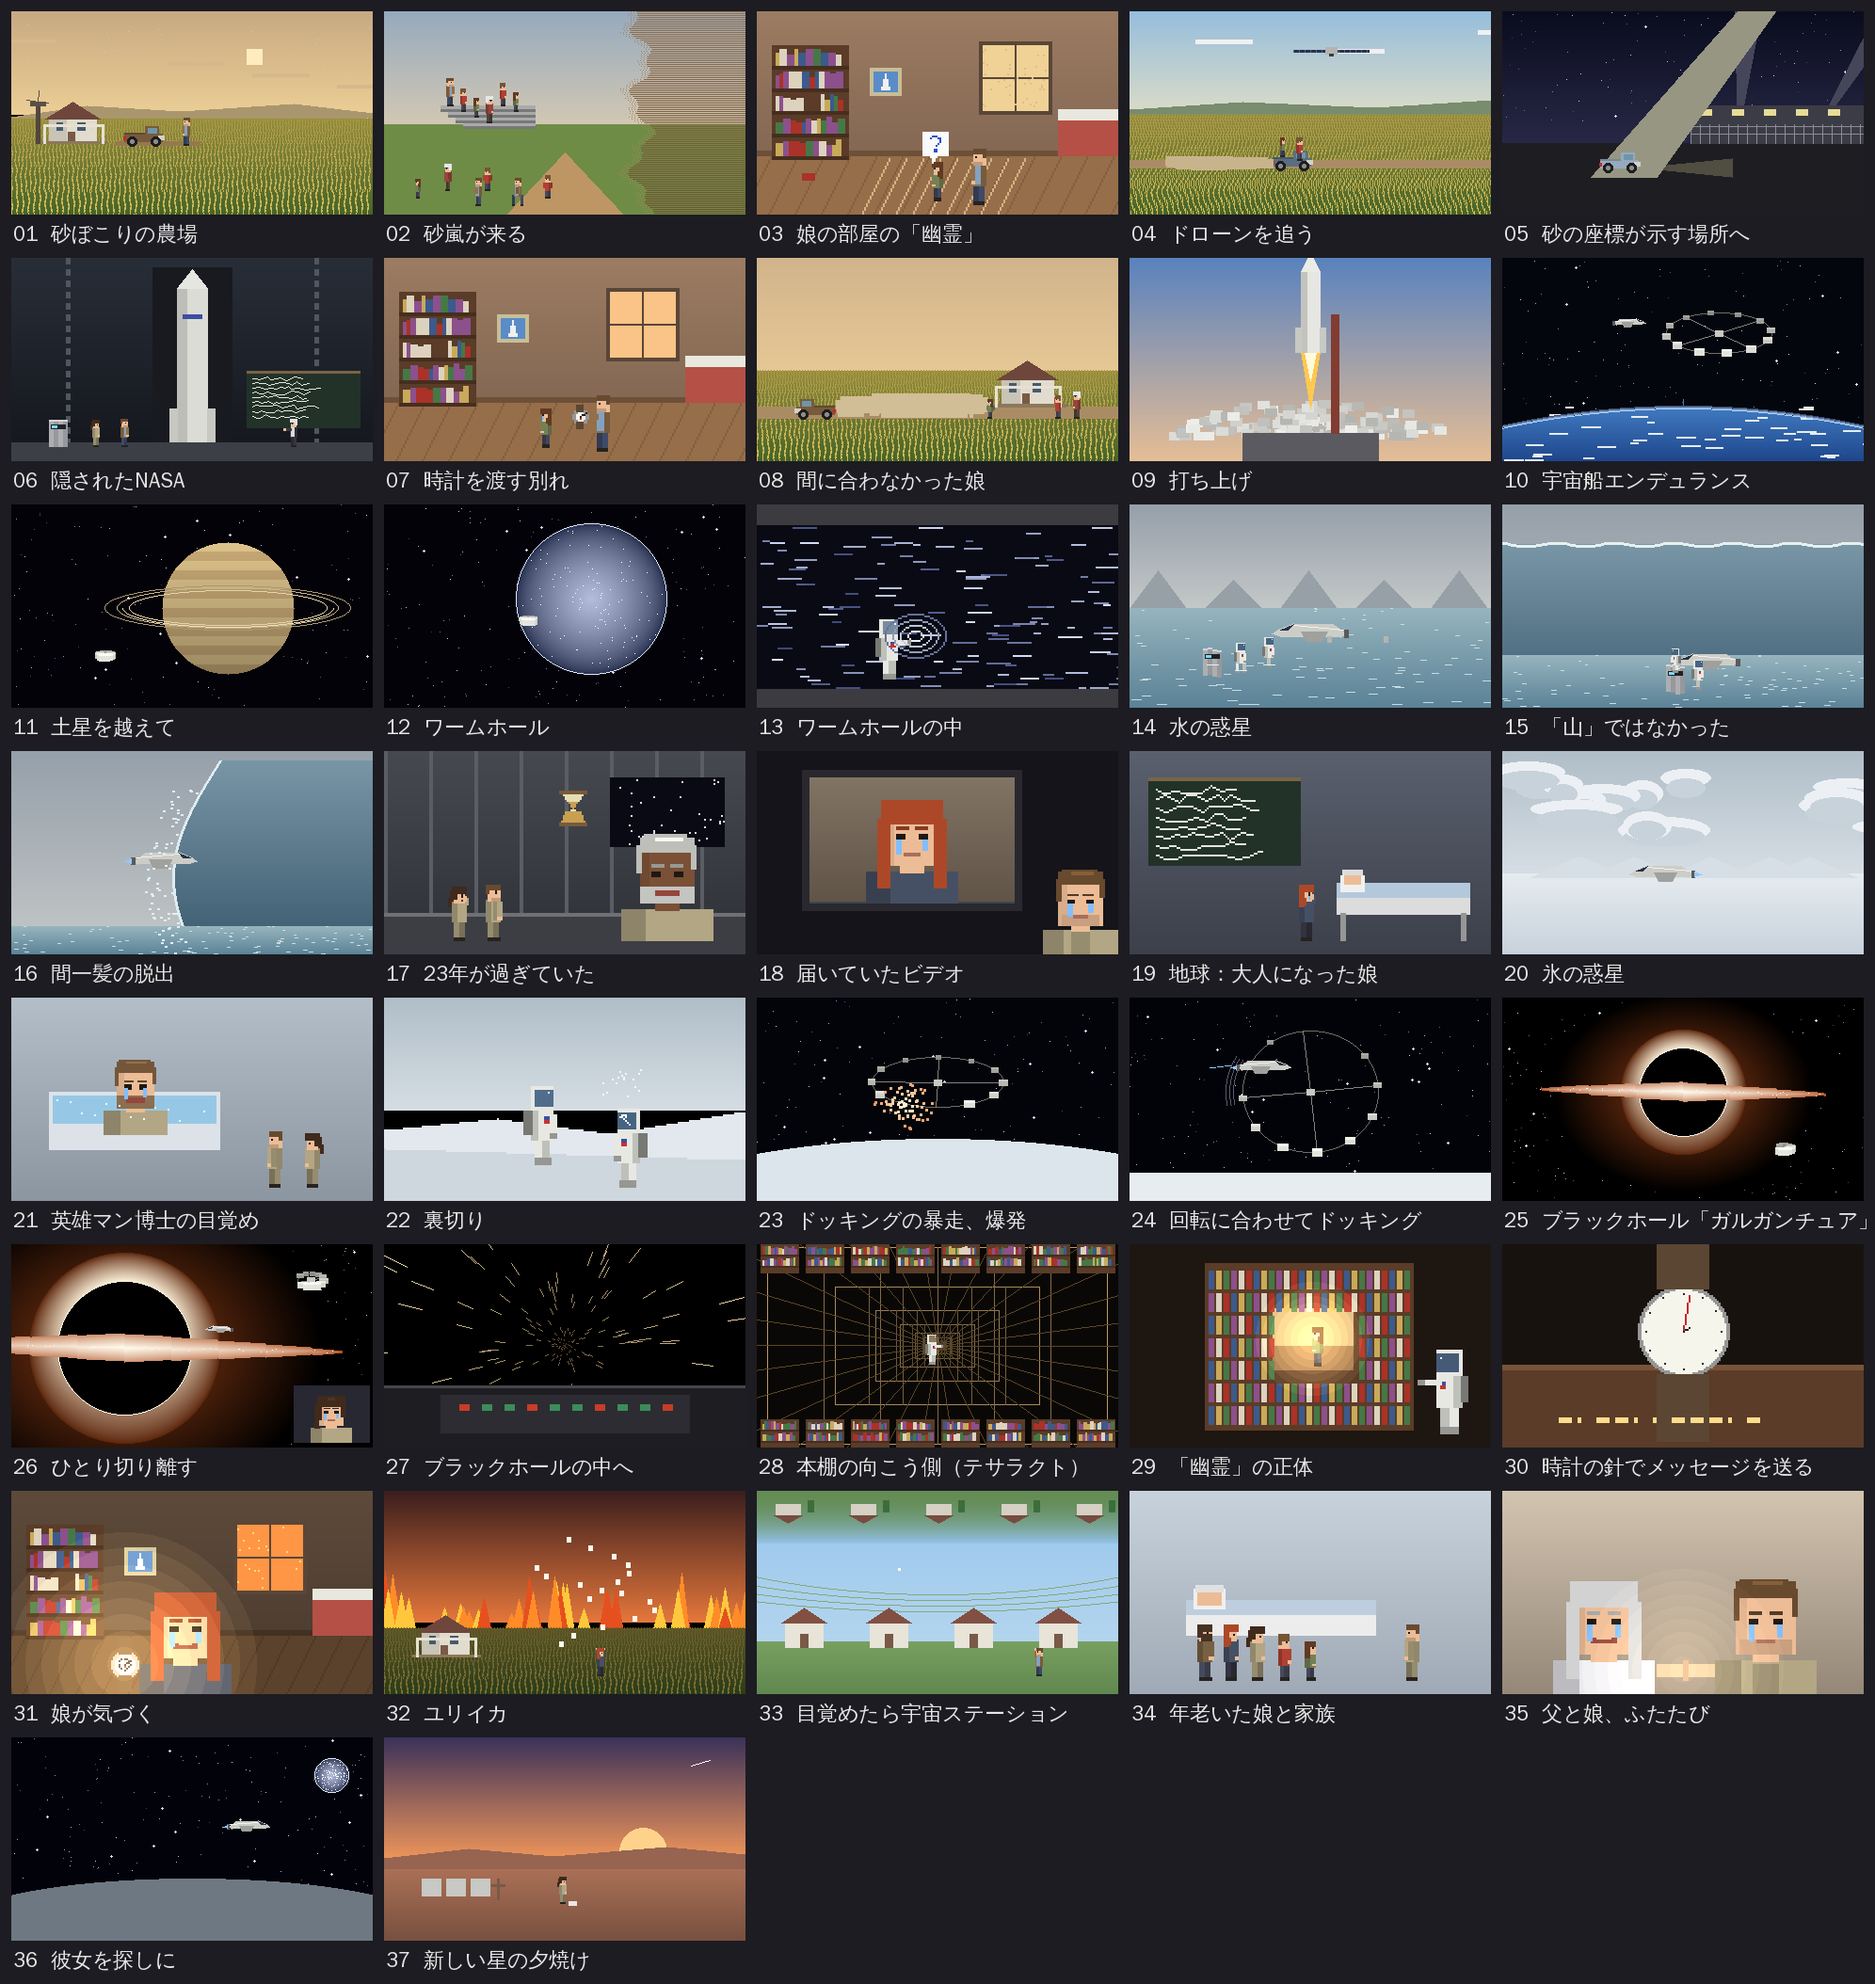
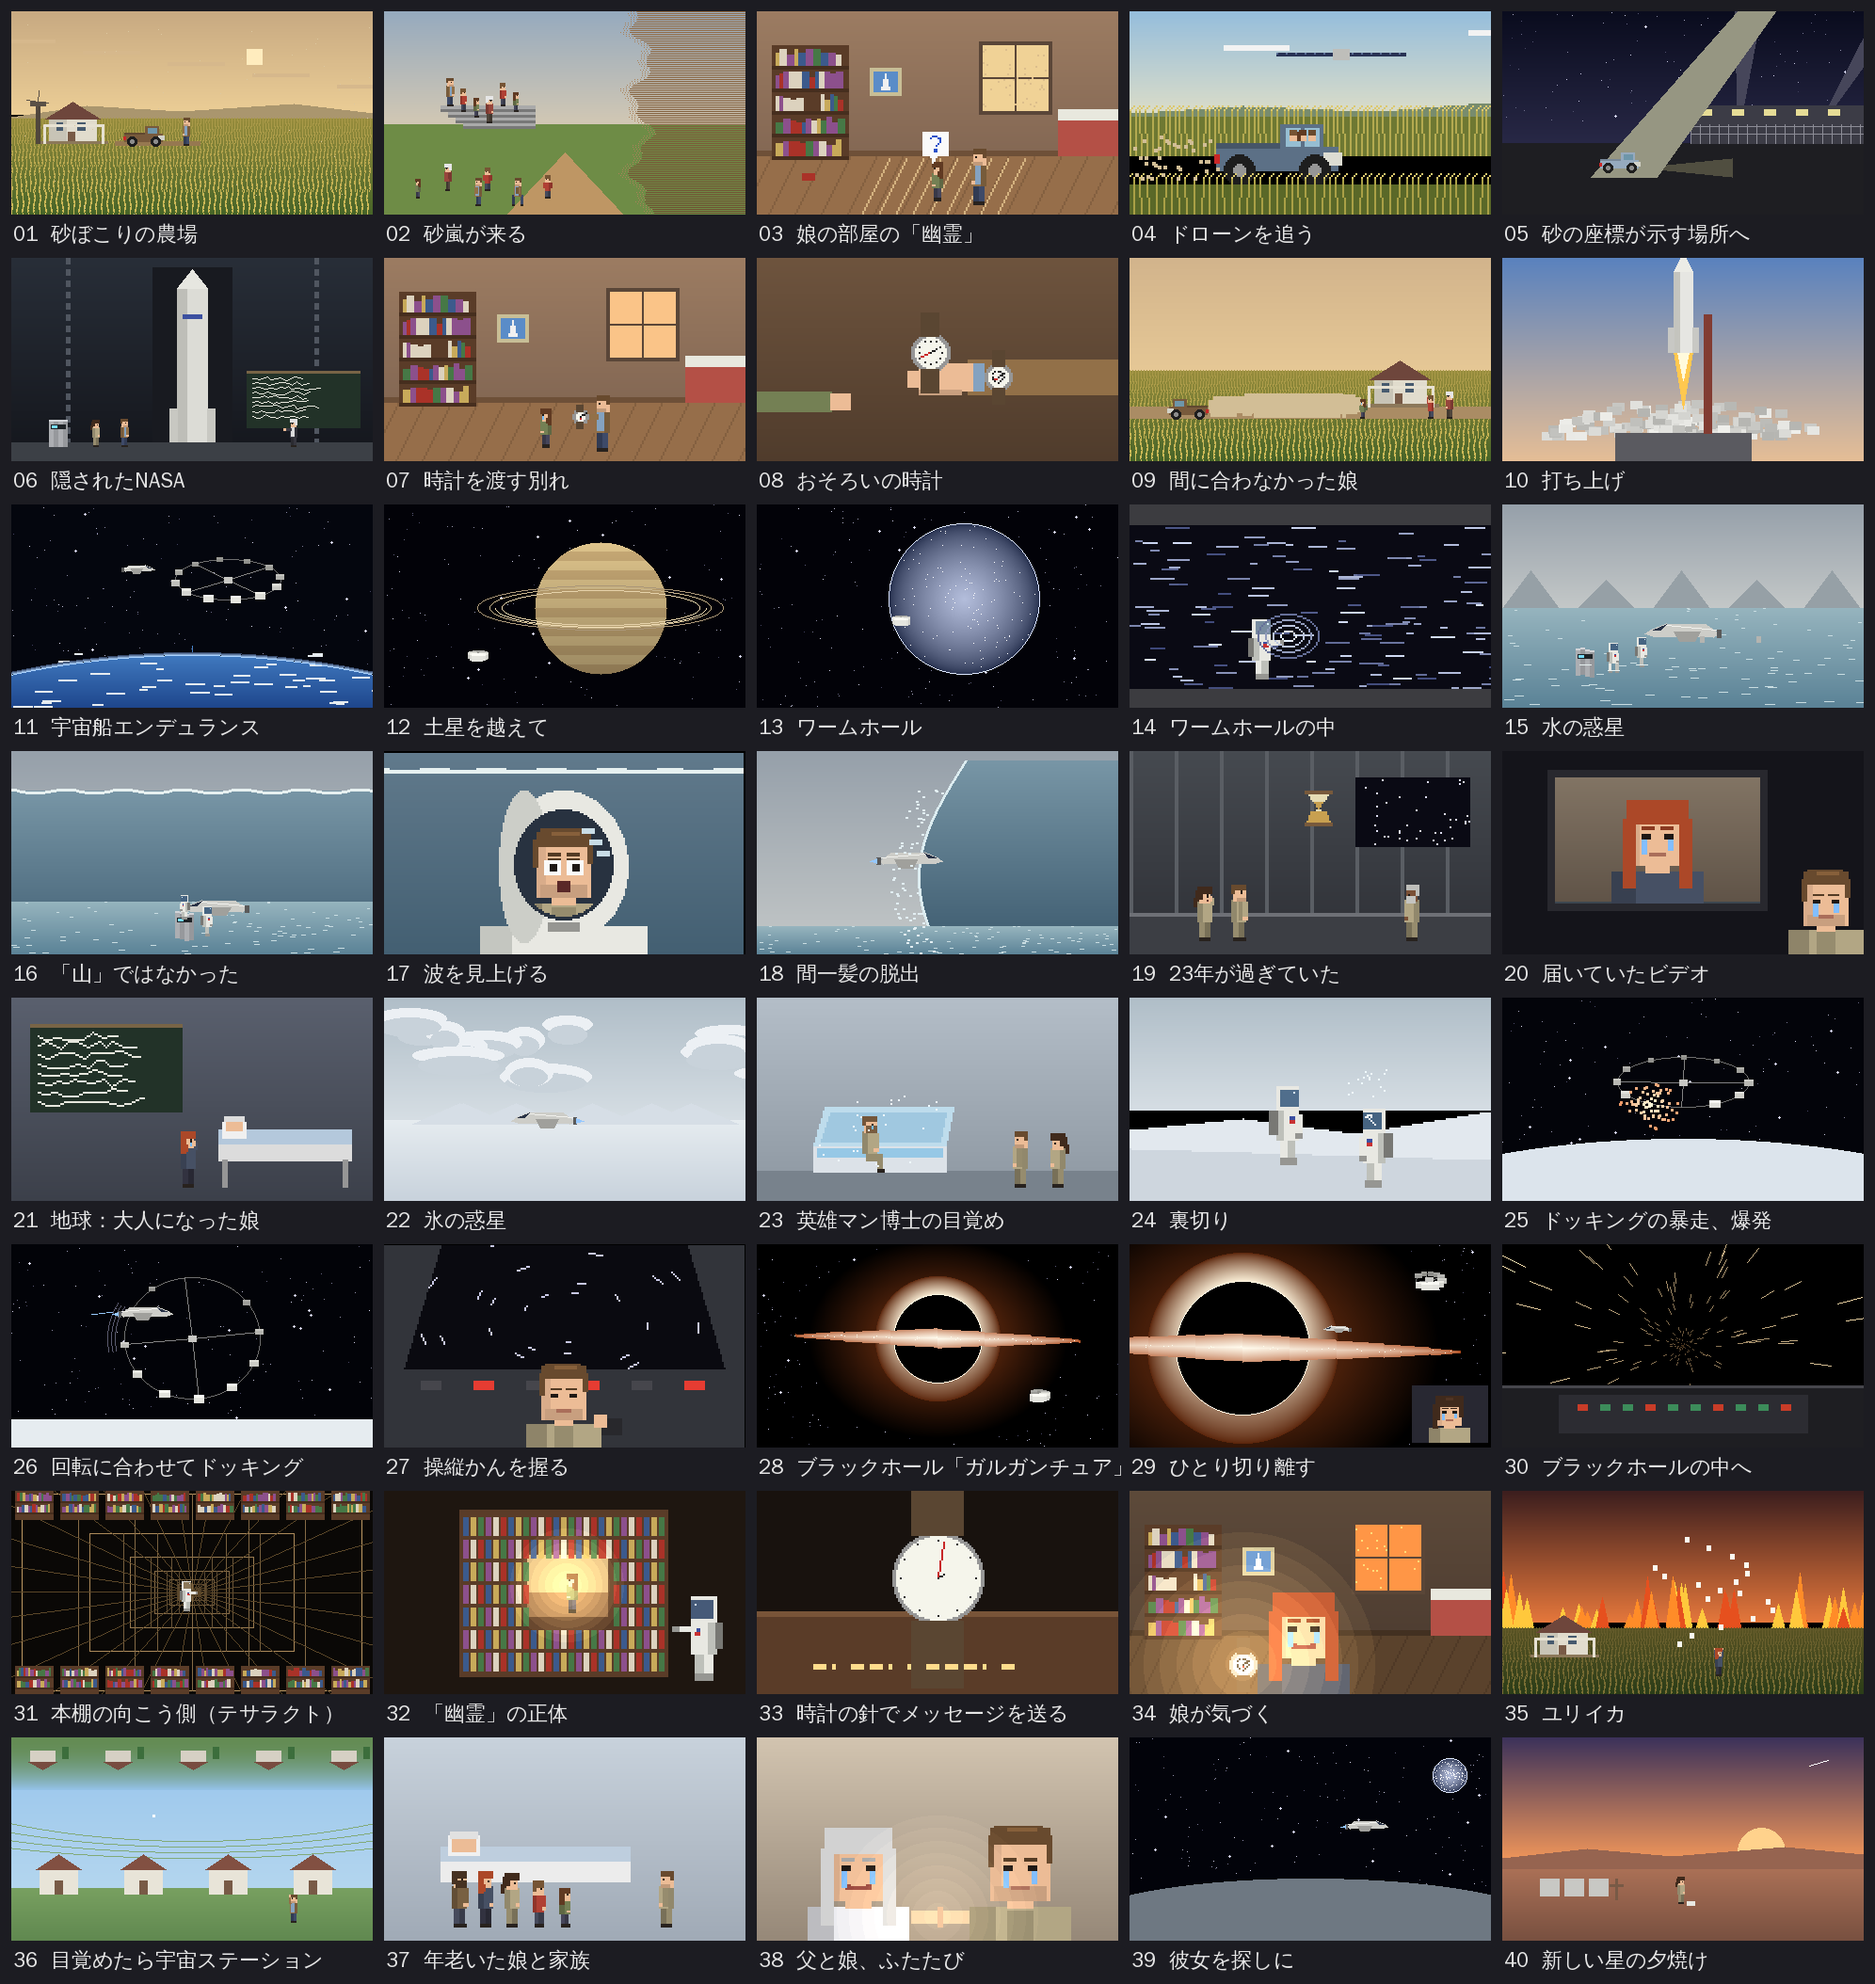
Interstellar: 40 cuts (watch close-up, wave look-up, cockpit), bigger pickup in drone chase, normal-size Romilly and Mann
Claude-Session: https://claude.ai/code/session_0186sLp4kup135AngXnfFUNM

diff --git a/interstellar/act1.py b/interstellar/act1.py
@@ -44,22 +44,40 @@ def s03_ghost(t):                     # Murph's room: fallen book, dust lines
     if t > 3: bubble(d, 88, 64, '?')
     return up(im)
 
-def s04_drone(t):                     # chasing the drone through the corn
-    im, d = canvas(); grad(d, 0, 110, (150, 190, 220), (220, 220, 200))
-    for k in range(3): R(d, (k * 140 - t * 6) % 440 - 40, 20 + k * 10, (k * 140 - t * 6) % 440 + 20, 24 + k * 10, (240, 240, 240))
-    d.polygon([(0, 104), (120, 96), (260, 102), (384, 94), (384, 112), (0, 112)], fill=(120, 140, 110))
-    corn(d, 110, 216, t, scroll=t * 120)
-    dx, dy = 230 + math.sin(t * 0.8) * 20, 40 + math.sin(t * 1.3) * 6
-    R(d, dx - 40, dy, dx + 40, dy + 2, (40, 50, 80))
-    for k in range(-40, 40, 6): d.line([dx + k, dy, dx + k, dy + 2], fill=(80, 100, 140))
-    R(d, dx - 6, dy - 3, dx + 6, dy + 4, (180, 180, 176)); R(d, dx - 2, dy + 4, dx + 2, dy + 6, (60, 60, 60))
-    R(d, 0, 158, W, 166, (170, 140, 100))
-    tx = 150 + math.sin(t * 3) * 4
-    truck(d, tx, 168, 1, col=(90, 110, 130), f=t)
-    person(d, tx + 28, 158, 'tom', 1); person(d, tx + 10, 154, 'murph', 1, 'wave')
+def s04_drone(t):                     # Cooper's pickup tearing through the corn after the drone
+    im, d = zcanvas(); grad(d, 0, 56, (150, 190, 220), (222, 222, 200), 0, ZW)
+    for k in range(2): R(d, (k * 90 - t * 4) % 220 - 20, 10 + k * 8, (k * 90 - t * 4) % 220 + 14, 12 + k * 8, (242, 242, 242))
+    d.polygon([(0, 54), (60, 50), (130, 53), (192, 48), (192, 58), (0, 58)], fill=(120, 140, 110))
+    def cornrow(y0, y1, sp, scroll, col, tip):
+        R(d, 0, y0, ZW, y1, col)
+        off = int(scroll) % sp
+        for x in range(-off, ZW + sp, sp):
+            sw = int(math.sin(t * 3 + x * 0.3) * 1.5)
+            d.line([x, y1, x + sw, y0 - 4], fill=tip); d.line([x + sw, y0 - 4, x + sw + 2, y0 - 6], fill=(220, 200, 110))
+    cornrow(56, 76, 3, t * 30, (110, 120, 50), (180, 170, 80))
+    # drone overhead: long dark solar wing
+    dx, dy = 120 + math.sin(t * 0.8) * 10, 22 + math.sin(t * 1.3) * 3
+    R(d, dx - 34, dy, dx + 34, dy + 1, (40, 50, 84))
+    for k in range(-34, 34, 5): d.point((dx + k, dy), fill=(90, 110, 150))
+    R(d, dx - 4, dy - 2, dx + 4, dy + 3, (190, 190, 186))
+    # the pickup, big, bouncing through the stalks
+    tx, ty = 46, 90 + int(math.sin(t * 9) * 1)
+    B = lambda a, b, c, e, col: R(d, tx + a, ty - b, tx + c, ty - e, col)
+    B(0, 6, 64, 18, (92, 112, 134)); B(34, 18, 56, 30, (92, 112, 134)); B(0, 18, 33, 20, (70, 86, 104))
+    B(37, 19, 54, 28, (150, 190, 210)); B(45, 19, 46, 28, (92, 112, 134))
+    B(57, 15, 66, 9, (220, 220, 210)); B(-1, 10, 1, 14, (200, 40, 40))
+    for wx in (12, 52):
+        d.ellipse([tx + wx - 8, ty - 14, tx + wx + 8, ty + 2], fill=(30, 30, 30)); d.ellipse([tx + wx - 3, ty - 9, tx + wx + 3, ty - 3], fill=(150, 150, 150))
+    # faces in the cab: Cooper driving, Murph and Tom beside him
+    for k, who in enumerate(['tom', 'murph', 'cooper']):
+        c = CAST[who]; fx = tx + 39 + k * 5
+        R(d, fx, ty - 26, fx + 3, ty - 22, SKIN); R(d, fx, ty - 27, fx + 3, ty - 25, c['hair'])
+        if who == 'murph': R(d, fx - 1, ty - 26, fx, ty - 22, c['hair'])
+    cornrow(92, 108, 4, t * 70, (90, 104, 40), (170, 160, 70))     # foreground stalks whipping past
     r = random.Random(int(t * 10))
-    for k in range(40): R(d, tx - r.randint(0, 120), 160 + r.randint(-6, 6), tx - r.randint(0, 120) + 2, 162 + r.randint(-6, 6), (200, 180, 140))
-    return im
+    for k in range(40):
+        x = tx - r.randint(0, 50); y = ty - r.randint(0, 24); R(d, x, y, x + 1, y + 1, (210, 190, 150))
+    return up(im)
 
 def s05_coords(t):                    # following the dust coordinates to a secret base
     im, d = canvas(); grad(d, 0, 140, (10, 12, 30), (40, 40, 70)); stars(d, 1, 120, 120, tw=int(t * 4))
@@ -110,6 +128,19 @@ def s07_goodbye(t):                   # the watch, the turned back
     else: watch(d, 176, 54, 2, ang=t)            # left on the bed
     return up(im)
 
+def s07b_watches(t):                  # close-up: the same watch on both wrists
+    im, d = zcanvas((60, 44, 34))
+    grad(d, 0, ZH, (110, 84, 62), (80, 60, 44), 0, ZW)
+    # Cooper's hand (right side) holding a watch out, his own matching watch on the wrist
+    R(d, 112, 54, 192, 72, (146, 112, 72)); R(d, 112, 56, 120, 70, (132, 162, 192))
+    R(d, 86, 56, 114, 70, SKIN); R(d, 80, 60, 88, 68, SKIN); R(d, 86, 70, 108, 72, shade(SKIN, .85))
+    watch(d, 128, 63, 5, ang=t * 6.28 / 6)
+    watch(d, 92, 50, 8, ang=t * 6.28 / 6)
+    # Murph's small hand (left), not taking it
+    k = clamp((t - 3) / 2)
+    R(d, 0, 66 + k * 10, 46 - k * 14, 76 + k * 10, (116, 128, 84)); R(d, 46 - k * 14, 67 + k * 10, 56 - k * 14, 75 + k * 10, SKIN)
+    return up(im)
+
 def s08_leave(t):                     # driving off; she runs out too late
     im, d = canvas(); grad(d, 0, 120, (210, 180, 140), (230, 200, 150))
     corn(d, 120, 216, t)
@@ -146,5 +177,5 @@ def s09_launch(t):                    # liftoff
 SCENES = [
     ('砂ぼこりの農場', s01_farm, 4), ('砂嵐が来る', s02_dust, 5), ('娘の部屋の「幽霊」', s03_ghost, 6),
     ('ドローンを追う', s04_drone, 5), ('砂の座標が示す場所へ', s05_coords, 8), ('隠されたNASA', s06_nasa, 8),
-    ('時計を渡す別れ', s07_goodbye, 4), ('間に合わなかった娘', s08_leave, 8), ('打ち上げ', s09_launch, 7),
+    ('時計を渡す別れ', s07_goodbye, 4), ('おそろいの時計', s07b_watches, 4), ('間に合わなかった娘', s08_leave, 8), ('打ち上げ', s09_launch, 7),
 ]

diff --git a/interstellar/act2.py b/interstellar/act2.py
@@ -82,6 +82,31 @@ def s15_wave(t):                      # those aren't mountains...
     tars(d, 150 + t * 4, 200, f=t * 10, walk=True); astro(d, 160 + t * 4, 178, -1, s=0.8)
     return im
 
+def helmet_face(d, cx, by, who, s=2, tint=(40, 50, 64), refl=None, **kw):
+    """Face seen through a round space-helmet visor."""
+    im = d._image
+    R(d, cx - 22 * s, by - 8 * s, cx + 22 * s, by, (232, 232, 226))                       # shoulders
+    R(d, cx - 22 * s, by - 8 * s, cx - 14 * s, by, (196, 198, 192))
+    d.ellipse([cx - 17 * s, by - 44 * s, cx + 17 * s, by - 4 * s], fill=(232, 232, 226))  # helmet shell
+    d.ellipse([cx - 17 * s, by - 44 * s, cx - 4 * s, by - 4 * s], fill=(204, 206, 200))
+    d.ellipse([cx - 13 * s, by - 39 * s, cx + 13 * s, by - 10 * s], fill=tint)          # visor
+    face = Image.new('RGB', im.size, tint); fd = ImageDraw.Draw(face)
+    portrait(fd, cx, by - 6 * s, who, s, **kw)
+    mask = Image.new('L', im.size, 0)
+    ImageDraw.Draw(mask).ellipse([cx - 12 * s, by - 38 * s, cx + 12 * s, by - 11 * s], fill=255)
+    im.paste(face, (0, 0), mask)
+    if refl:
+        for k in range(3): R(d, cx + (5 + k * 2) * s, by - (34 - k * 3) * s, cx + (8 + k * 2) * s, by - (33 - k * 3) * s, refl)
+    R(d, cx - 4 * s, by - 9 * s, cx + 4 * s, by - 7 * s, (150, 150, 146))
+
+def s15b_lookup(t):                   # close-up: Cooper looks up at the wave
+    im, d = zcanvas()
+    k = clamp(t / 4)
+    grad(d, 0, ZH, mix((150, 160, 170), (80, 110, 130), k), mix((120, 140, 156), (50, 80, 100), k), 0, ZW)
+    for x in range(0, ZW, 2): R(d, x, 6 + k * 4 + math.sin(x * 0.2 + t * 4), x + 1, 7 + k * 4, (230, 240, 240))
+    helmet_face(d, 96, 108, 'cooperS', 2, refl=(200, 220, 230), shock=True)
+    return shake(up(im), 2 if t > 2 else 0, int(t * 24))
+
 def s16_escape(t):                    # liftoff as the wave breaks
     im, d = canvas(); grad(d, 0, 216, (150, 160, 170), (196, 200, 200))
     k = clamp(t / 8)
@@ -112,7 +137,7 @@ def stars_box(d, x0, y0, x1, y1, seed=2):
 
 def s17_23years(t):                   # back aboard: Romilly has aged 23 years
     im, d = zcanvas(); ship_interior(d)
-    portrait(d, 150, 100, 'romillyO', 2)
+    person(d, 150, 100, 'romillyO', -1)
     person(d, 62 - clamp((t - 2) / 1) * 4, 100, 'cooperS', 1, shock=t > 2)
     person(d, 40, 100, 'brand', 1, 'cover' if t > 2.5 else 'stand', shock=t > 2)
     # hourglass
@@ -151,7 +176,7 @@ def s19_murph(t):                     # on Earth: grown-up Murph at the professo
 
 SCENES = [
     ('宇宙船エンデュランス', s10_orbit, 6), ('土星を越えて', s11_saturn, 6), ('ワームホール', s12_wormhole, 8),
-    ('ワームホールの中', s13_inside, 4), ('水の惑星', s14_miller, 4), ('「山」ではなかった', s15_wave, 6),
+    ('ワームホールの中', s13_inside, 4), ('水の惑星', s14_miller, 4), ('「山」ではなかった', s15_wave, 6), ('波を見上げる', s15b_lookup, 3),
     ('間一髪の脱出', s16_escape, 5), ('23年が過ぎていた', s17_23years, 4), ('届いていたビデオ', s18_messages, 12),
     ('地球：大人になった娘', s19_murph, 7),
 ]

diff --git a/interstellar/act3.py b/interstellar/act3.py
@@ -19,9 +19,13 @@ def s20_ice(t):                       # Mann's frozen world
 def s21_mann(t):                      # the hero wakes from cryosleep
     im, d = zcanvas()
     grad(d, 0, ZH, (180, 190, 200), (140, 150, 160), 0, ZW)
-    R(d, 20, 50, 110, 80, (220, 226, 232)); R(d, 22, 52, 108, 66, (150, 200, 230))
-    portrait(d, 66, 72, 'mann', 1.4, cry=t > 2, beard=(140, 110, 80))
-    for k in range(int(t * 8) % 20): d.point((24 + (k * 13) % 84, 54 + (k * 7) % 12), fill=(240, 250, 255))
+    R(d, 0, 92, ZW, ZH, (120, 130, 140))
+    R(d, 30, 78, 100, 92, (220, 226, 232)); R(d, 32, 80, 98, 84, (150, 200, 230))      # cryo pod
+    d.polygon([(30, 78), (36, 58), (104, 58), (100, 78)], fill=(190, 220, 236))          # lid swung open
+    d.polygon([(34, 76), (39, 61), (100, 61), (97, 76)], fill=(160, 200, 224))
+    person(d, 60, 92, 'mann', 1, 'sit', cry=t > 2)
+    r = random.Random(int(t * 6))
+    for k in range(24): d.point((32 + r.randrange(66), 50 + r.randrange(40)), fill=(240, 250, 255))
     person(d, 140, 100, 'cooperS', -1); person(d, 160, 100, 'brand', -1)
     return up(im)
 
@@ -65,6 +69,20 @@ def s24_docking(t):                   # matching the spin
     for n in range(3): d.line([rx - 40 - n * 8, ry - 4 + n, rx - 34 - n * 8, ry - 4 + n], fill=(150, 200, 255))
     return im
 
+def s24b_cockpit(t):                  # close-up: Cooper fighting the spin
+    im, d = zcanvas((10, 10, 16))
+    a = t * 2.6
+    for k in range(40):                          # stars wheeling past the window
+        rr = 20 + (k * 37) % 90; aa = a + k * 0.7
+        x = 96 + math.cos(aa) * rr; y = 40 + math.sin(aa) * rr * 0.6
+        d.line([x, y, 96 + math.cos(aa - 0.12) * rr, 40 + math.sin(aa - 0.12) * rr * 0.6], fill=(200, 200, 230))
+    R(d, 0, 66, ZW, ZH, (50, 52, 58)); d.polygon([(0, 0), (30, 0), (10, 66), (0, 66)], fill=(50, 52, 58)); d.polygon([(192, 0), (162, 0), (182, 66), (192, 66)], fill=(50, 52, 58))
+    warn = int(t * 4) % 2
+    for k in range(6): R(d, 20 + k * 28, 72, 30 + k * 28, 76, (230, 60, 50) if (warn + k) % 2 else (70, 70, 76))
+    portrait(d, 96, 108, 'cooperS', 1.6)
+    R(d, 116, 92, 126, 100, (40, 40, 44)); R(d, 112, 90, 118, 96, SKIN)                  # hand on the stick
+    return shake(up(im), 1, int(t * 24))
+
 def s25_gargantua(t):                 # Gargantua
     im, d = canvas((0, 0, 0)); stars(d, 25, 200)
     gargantua(d, 192, 100, 46, t)
@@ -100,6 +118,6 @@ def s27_fall(t):                      # into the dark
 
 SCENES = [
     ('氷の惑星', s20_ice, 6), ('英雄マン博士の目覚め', s21_mann, 4), ('裏切り', s22_betrayal, 6),
-    ('ドッキングの暴走、爆発', s23_explosion, 4.5), ('回転に合わせてドッキング', s24_docking, 6),
+    ('ドッキングの暴走、爆発', s23_explosion, 4.5), ('回転に合わせてドッキング', s24_docking, 6), ('操縦かんを握る', s24b_cockpit, 3),
     ('ブラックホール「ガルガンチュア」', s25_gargantua, 6), ('ひとり切り離す', s26_detach, 6), ('ブラックホールの中へ', s27_fall, 6),
 ]
